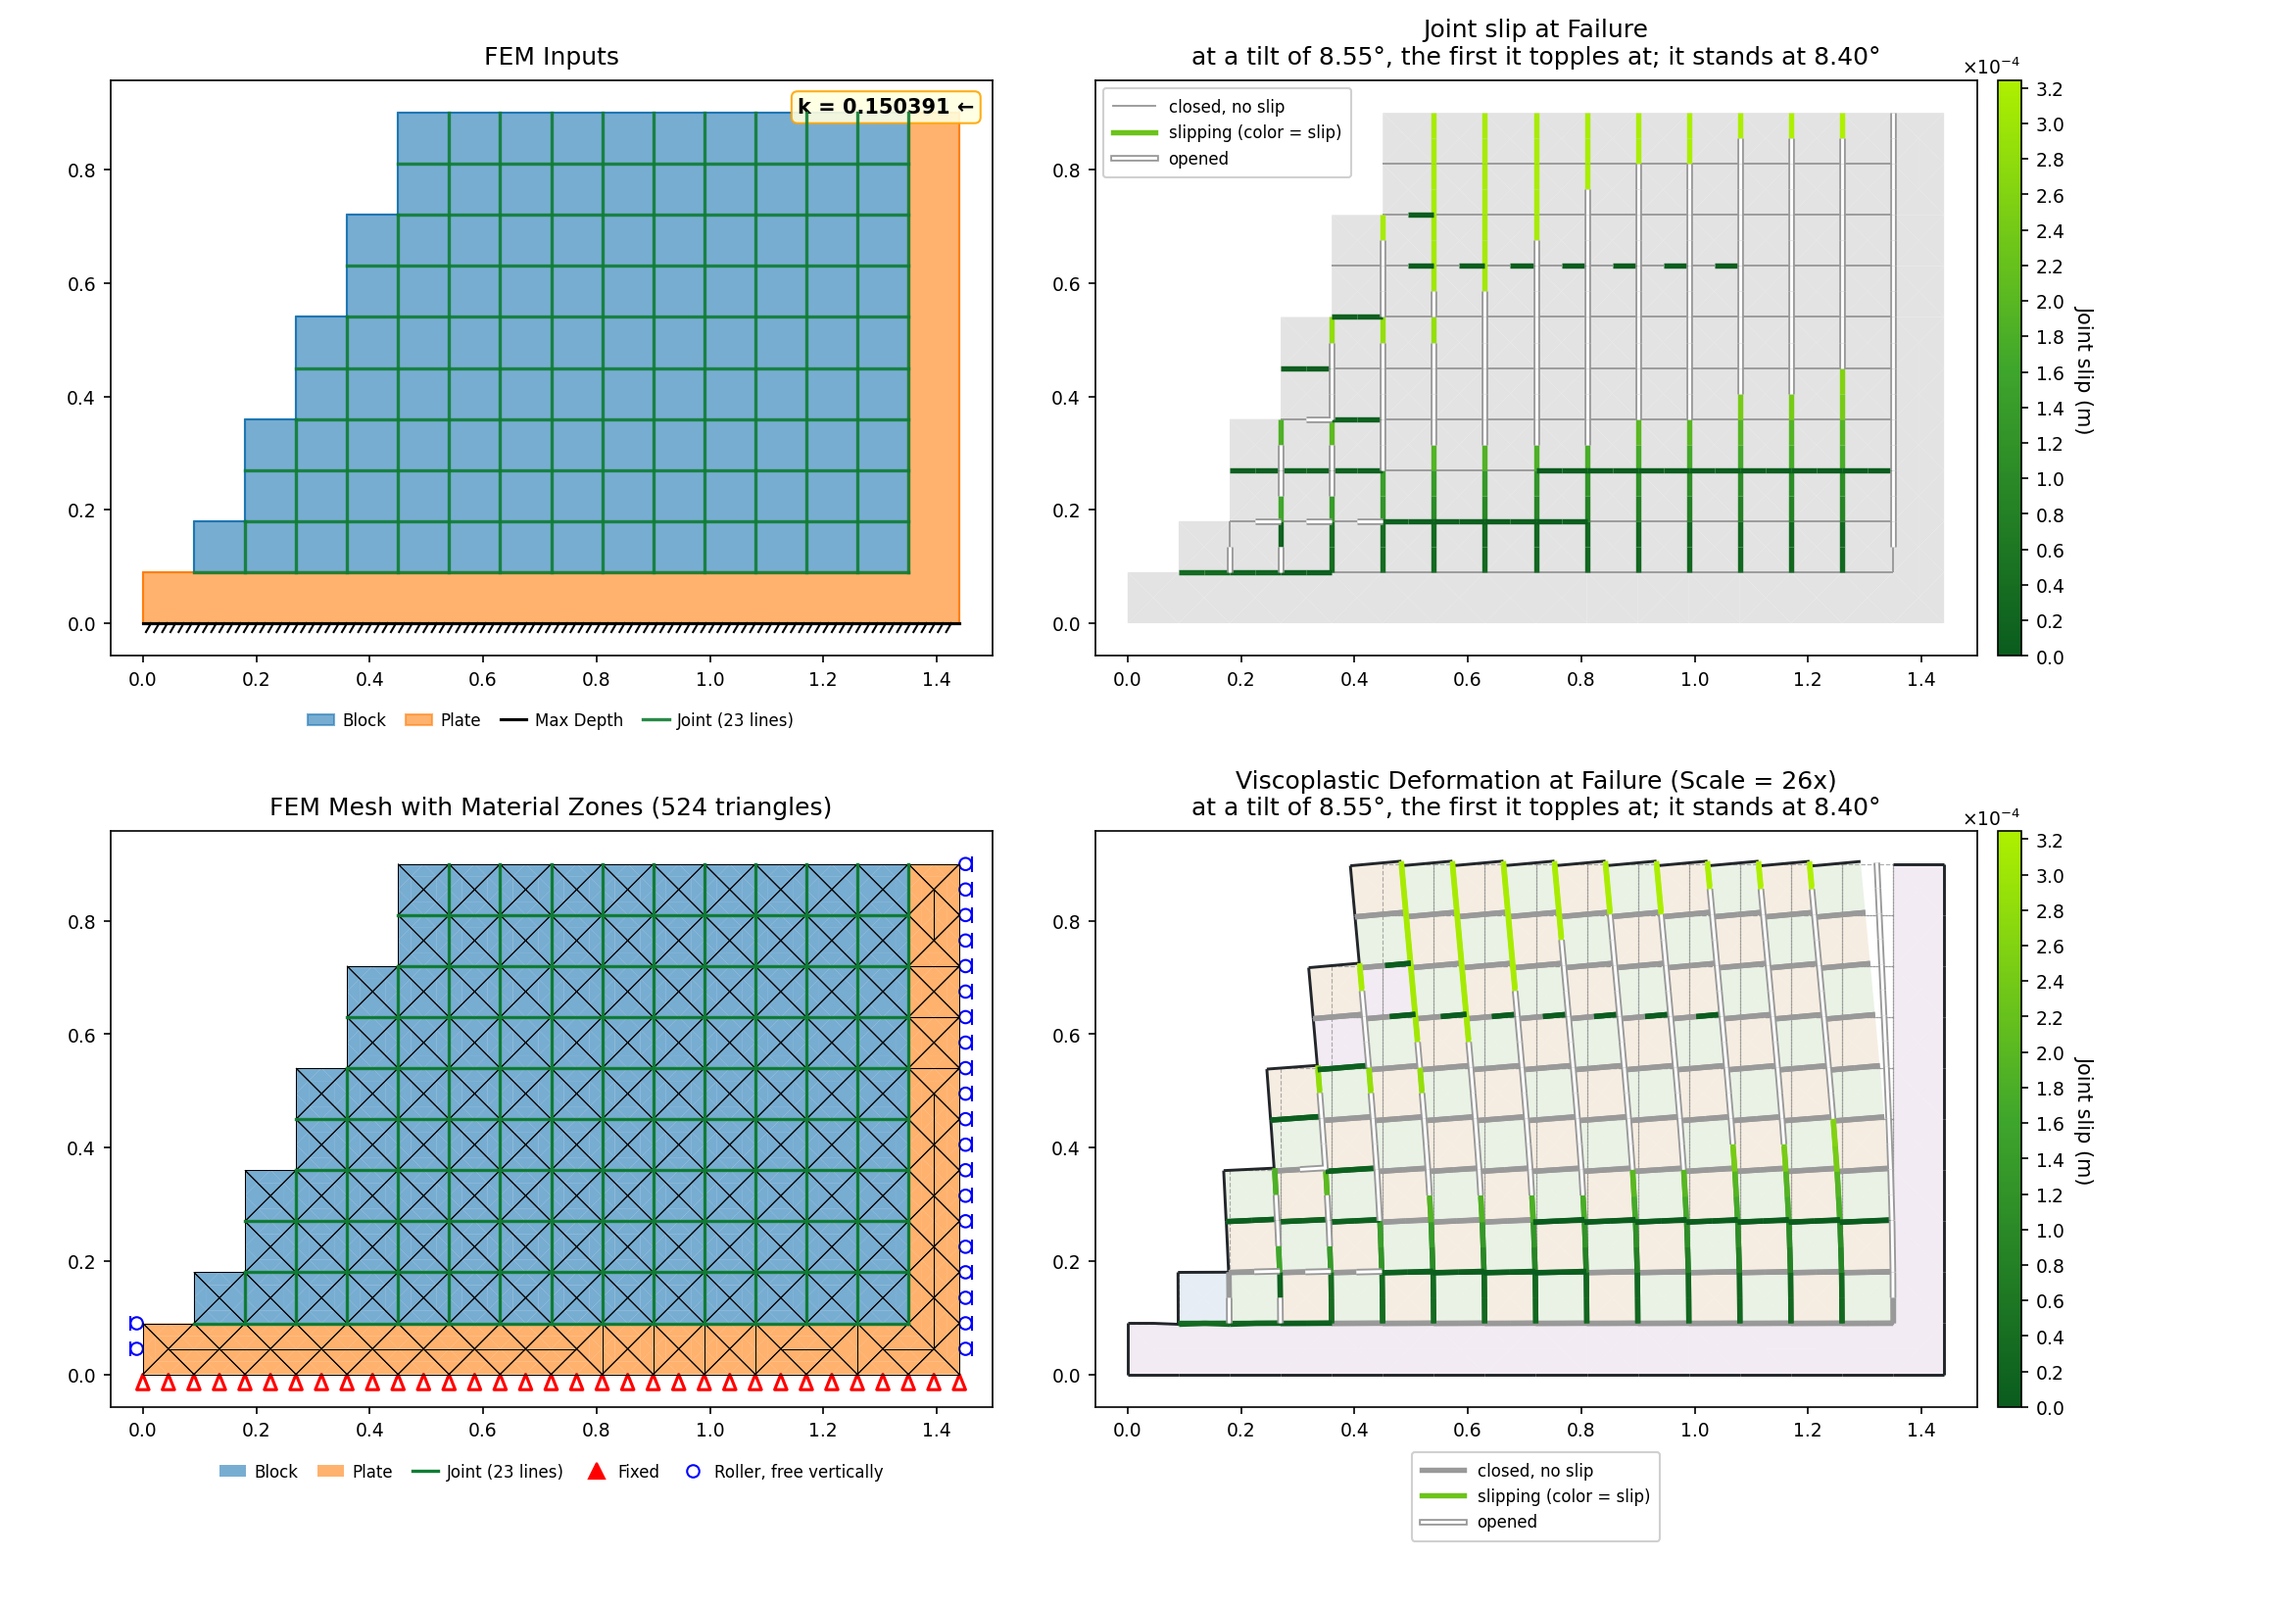
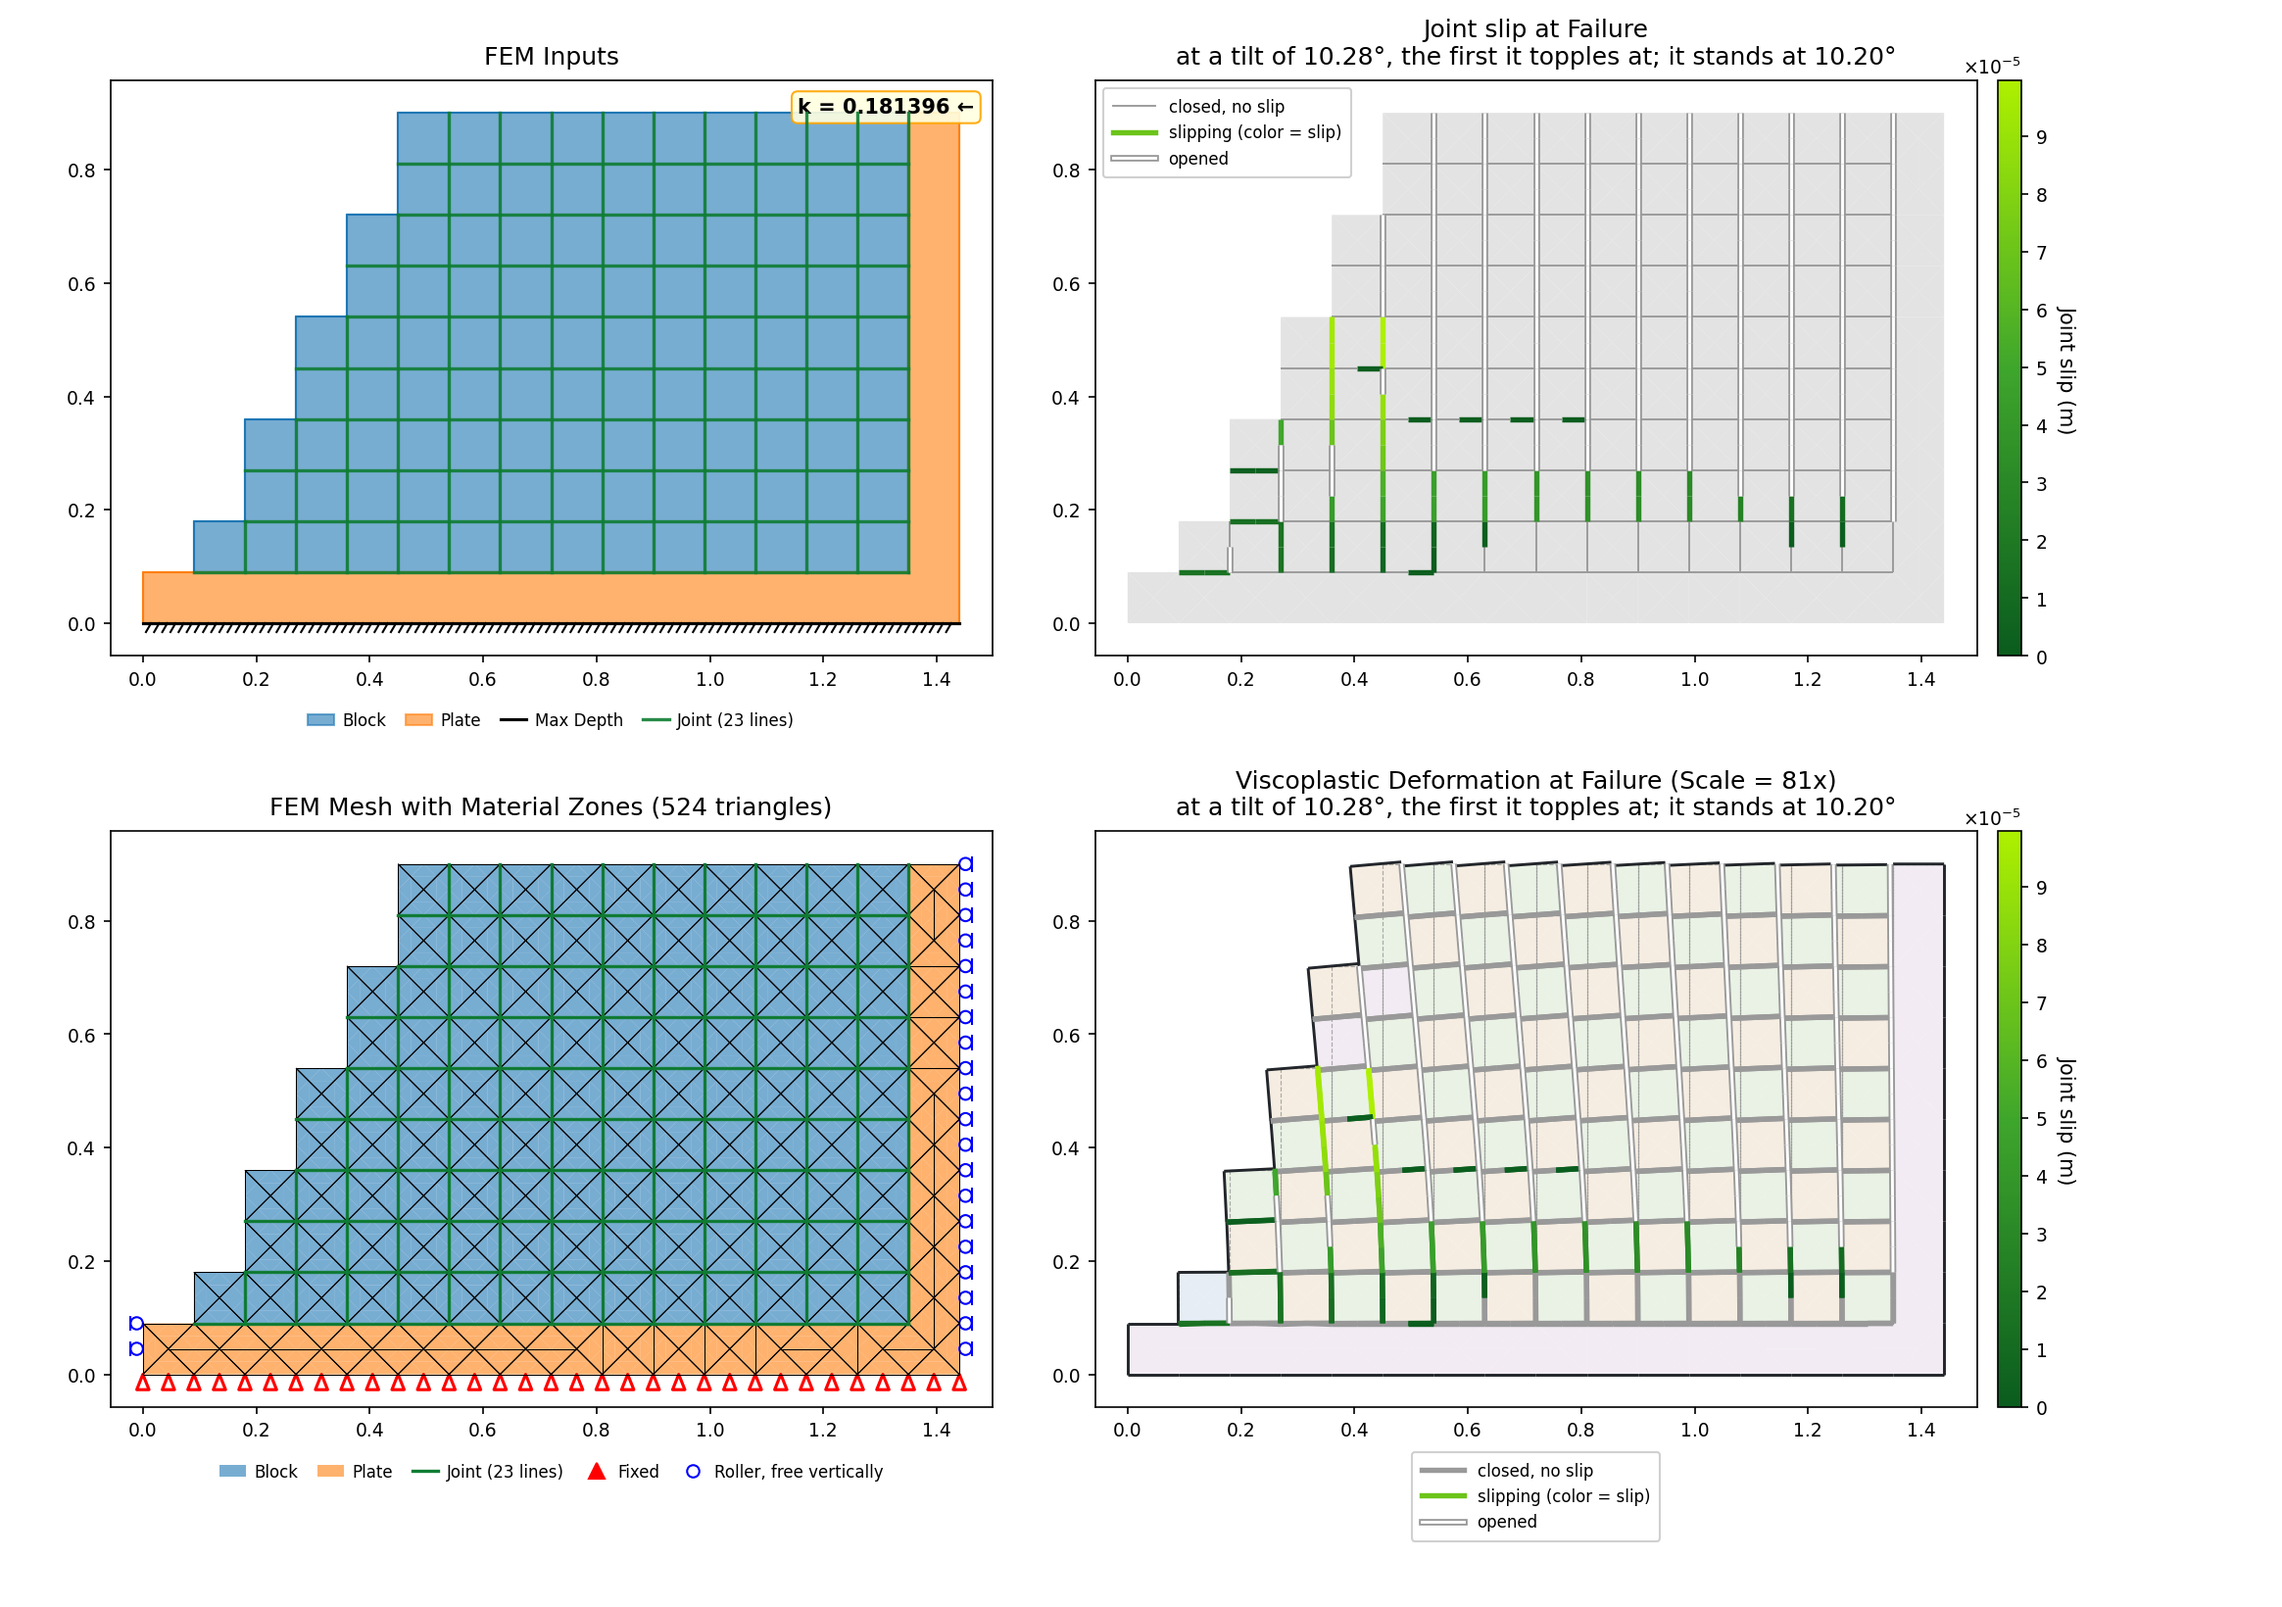
verification(rs2 joints): RJ-16 re-measured at 10.2 deg and locked with a fem_tilt tag; UDEC stays its referee
The page's 8.5 deg was a stopping-rule reading of 2026-09-16: the runaway
rule, written in multiples of a 46-micron elastic deflection, trips on a
stack of 9 cm blocks that seats and rocks by far more than that before it
stands, and the corrector that should then have checked for a balanced
state failed on the factorization-cache bug fixed in 350caa99. With the
corrector working, the stack stands at k = 0.1798 (10.20 deg) and topples
at 0.1814 (10.28 deg); the plain iteration with no stopping rule agrees,
settling through 9.9 deg and sliding steadily from 10.2. Goodman & Bray's
column analysis with the plate tilted gives 7.6 deg, a lower bound; the
experiment and RS2 9 deg; UDEC 11 deg. Scored against the manual's UDEC:
-6.9%. Figure redrawn at the two coefficients.

Claude-Session: https://claude.ai/code/session_01XjjT2aBxw8gY7EFdpoUcpj

diff --git a/docs/verification/rs2_joints.md b/docs/verification/rs2_joints.md
@@ -27,8 +27,7 @@ shared [References](references.md) page.
   problems 1 and 2, Alejano's plowing equation on problems 11 to 14, the sliding block with its tensile bridge on
   problem 19, and, on problem 15, the vendor's Slide2 limit-equilibrium search, since Alejano's
   footwall equations price a mechanism the slope does not take. Where none exists the referee is the one the manual names, UDEC in every such case.
-  Each row shows the recomputed value beside the one its source prints. Problem 16, a tilt table,
-  is scored against its experiment.
+  Each row shows the recomputed value beside the one its source prints.
 - **Rigid-block bound.** Each plowing problem is two rigid blocks. The highest reduction factor at
   which some set of joint forces, each inside its friction cone, can still hold both blocks in
   place is a ceiling on any rigid-block answer: above it the blocks must move. Alejano's Eq. (7)
@@ -97,7 +96,7 @@ joint model whose output is a stress-displacement curve.
 | [13](#rj-13) | 🟢 | Plowing sliding slab, example 4 | SSRM 0.998 vs Alejano Eq. (7) 1.0002 (−0.2%) | 1.0 vs 1.0002 (0.0%) | UDEC 1.0 (−0.2%) · Alejano prints 1.0 | 1.0 / 1.05 | |
 | [14](#rj-14) | 🟢 | Plowing sliding slab, example 5 | SSRM 1.232 vs Alejano Eq. (7) 1.2034 (+2.4%) | 0.89 vs 1.2034 (−26.0%) | UDEC 0.9 (+36.9%) · Alejano prints 1.00 | 0.89 / 1.09 | The 1.00 the paper prints for this example does not follow from the inputs it prints; Eq. (7) on them gives 1.2034. |
 | [15](#rj-15) | 🟢 | Partially joint-controlled footwall | SSRM 1.271 vs Slide2 LE search 1.25 (+1.7%) | 1.28 vs 1.25 (+2.4%) | Alejano Eqs. (9)–(10) 1.7985 (single-bed formula; the paper prints 1.72) · UDEC 1.6 (−20.6%) | 1.28 / 1.42 | Alejano's closed form drives a wedge out through a single 2 m bed and its factor rises with bed thickness; the three programs free to search for a surface agree at 1.25–1.28, so the limit-equilibrium search is the referee, as the rigid-block bound is on problem 11. |
-| [16](#rj-16) | <span class="nodata">⊘</span> | Barla et al. tilt-table block toppling | Tilt 8.5° vs experiment 9° (−5.6%) | 9° vs 9° (0.0%) | UDEC 11° (−22.7%) | 9° / 7° | *reported, no lock* — a tilt angle rather than a factor of safety: pushed with a seismic coefficient at full strength, the stack stands at 8.40° and topples at 8.55°. |
+| [16](#rj-16) | 🔴 | Barla et al. tilt-table block toppling | Tilt 10.24° vs UDEC 11° (−6.9%) | 9° vs 11° (−18.2%) | Experiment 9° · Goodman & Bray, plate tilted, 7.6° | 9° / 7° | A tilt angle rather than a factor of safety: pushed with a seismic coefficient at full strength, the stack stands at 10.20° and topples at 10.28°, above the rigid-column bound and the physical stack and below the distinct-element code. |
 | [17](#rj-17) | 🟡 | Step-path, en-echelon joints | SSRM 1.213 vs UDEC 1.29 (−6.0%) | 1.24 vs 1.29 (−3.9%) | — | 1.24 / 1.2 | No closed form: three rock bridges decide the factor, and both finite element codes read them below the distinct-element run, 2.1 points apart. |
 | [18](#rj-18) | 🟢 | Step-path, continuous joints | SSRM 0.998 vs UDEC 1.01 (−1.2%) | 1.01 vs 1.01 (0.0%) | — | 1.01 / 1.0 | |
 | [19](#rj-19) | 🟢 | Bi-planar step-path failure | SSRM 1.623 vs rigid-block limit equilibrium 1.5914 (+2.0%) | 1.5 vs 1.5914 (−5.7%) | UDEC 1.46 (+11.2%) | 1.5 / 1.41 | One block sliding on the basal joint, held by friction and by the rock bridge in tension; its statics, with the tensile cap reduced with the trial factor as the vendor reduces it, is the referee, and both vendor numbers sit below it. |
@@ -758,7 +757,7 @@ above the Mohr-Coulomb apex its own c and φ imply (c/tan φ = 285.6 kPa), so it
 
 ![RJ-15: partially joint-controlled footwall slope (rj015) — FEM inputs, mesh, viscoplastic shear strain with joint slip at the critical SRF, and the deformed section at true scale. The bedding slips over a long stretch behind the face, and the rock's only strain is a small patch at the toe where the slab has to break through to get out — the coupled mechanism the source paper describes](images/RJ-15.png)
 
-### <span class="nodata">⊘</span> RJ-16: Barla et al. tilt-table block toppling (rj016) {#rj-16}
+### 🔴 RJ-16: Barla et al. tilt-table block toppling (rj016) {#rj-16}
 
 A laboratory test rather than a slope. Fourteen columns of 9 cm blocks are stacked into a 63.4°
 staircase on a plate, and the plate is tilted until the stack topples; what the problem reports is
@@ -776,26 +775,35 @@ sign is its direction, so a tilt of θ is k = tan θ toward the face, and the ro
 sweeping k at full strength — F = 1, no reduction — until the stack stops standing. Every point is
 one solve on the corpus mesh, 0.09 m, which is the block size.
 
-| XSLOPE tilt | Experiment referee | RS2 vs referee | UDEC (manual) | RS2 without / with improvement |
-|---|---|---|---|---|
-| **8.5°** | 9° (−5.6%) | 9° vs 9° (0.0%) | 11° (−22.7%) | 9° / 7° |
+| XSLOPE tilt | UDEC referee | RS2 vs referee | Experiment | Goodman & Bray, plate tilted | RS2 without / with improvement |
+|---|---|---|---|---|---|
+| **10.24°** | 11° (−6.9%) | 9° vs 11° (−18.2%) | 9° | 7.6° | 9° / 7° |
 
-The stack stands at k = 0.1477, which is 8.40°, and goes at k = 0.1504, which is 8.55°. It stands
-at every coefficient tried below that and fails at every one above, through 0.35, the largest
-tried.
+<!-- test: file=files/rocscience/joints/rj016.xlsx, type=fem_tilt, k_stand=0.179846, k_fail=0.181396, expected_tilt=10.24, tolerance=0.1, element_type=tri6, target_size=0.09, max_iter=250000, tension_srf=false, k0=1, benchmark=RJ-16 -->
+
+The stack stands at k = 0.1798, which is 10.20°, and goes at k = 0.1814, which is 10.28°. It stands
+at every coefficient tried below that and fails at every one above, through 0.25, the largest
+tried. Run on with no stopping rule at all, the plain iteration agrees: the stack settles at every
+tilt through 9.9° and moves at a steady rate from 10.2°.
 
 **A coefficient is not a rotation, and here the difference is measurable and measures zero.**
 Tilting the model by θ turns the body force through θ and leaves its magnitude at γ; a coefficient
-k = tan θ turns it through the same angle and multiplies its magnitude by 1/cos θ, which is 1.1% at
-8.5°. On this model that cannot move the answer, because every joint carries zero cohesion and no
+k = tan θ turns it through the same angle and multiplies its magnitude by 1/cos θ, which is 1.6% at
+10.2°. On this model that cannot move the answer, because every joint carries zero cohesion and no
 block can yield, so what the state depends on is the direction of the body force and not its size.
-Re-solving the two bracketing coefficients with every unit weight scaled by 1.011 and then by 0.5
+Re-solving the two bracketing coefficients with every unit weight scaled by 1.016 and then by 0.5
 leaves both unchanged: the stack still stands at the lower coefficient and goes at the higher.
 
-**The row is reported rather than locked**: what it measures is a tilt rather than a factor of
-safety, and its two bracketing coefficients are re-solved by a check of their own before a lock is
-recorded. Its figure is drawn the same way, two solves at the two coefficients, titled by the angle
-rather than by a factor.
+**Where the five numbers sit.** Goodman & Bray's column analysis, with the plate tilted instead of
+the strength reduced, puts the toppling tilt of these fourteen rigid columns at 7.6°: every column
+tipping at once about its base corner, each thrust between columns at the top corner of the
+contact, friction fully mobilized everywhere. That construction allows no contact pressure below a
+corner, so it is a lower bound, and everything else sits above it: the physical stack and RS2 at
+9°, XSLOPE at 10.2°, and the distinct-element code, whose contacts roll and re-form as the columns
+lean, at 11°. The row is locked on its two coefficients: its check re-solves the stack at both, at
+full strength, and confirms that it stands at the first and topples at the second. Its figure is
+drawn the same way, two solves at the two coefficients, titled by the angle rather than by a
+factor.
 
 The plate is weightless in the vendor model (`BodyForceSolid: 0` — it is the apparatus, not rock),
 and `build_fem_data` requires a positive unit weight, so it is built at the 27 kN/m³ its own
@@ -804,7 +812,7 @@ base of the stack is the weight of the blocks above it.
 
 **Input file:** [rj016.xlsx](files/rocscience/joints/rj016.xlsx).
 
-![RJ-16: Barla et al. tilt-table block toppling (rj016) — FEM inputs with the seismic coefficient that stands for the tilt, mesh with the vendor's rollers, joint slip at the first coefficient the stack goes at, and the deformed section. The slip is on the vertical joints between the columns and on the bedding under the crest of the stack, and the deformed section at 156x shows what that adds up to: every column leaning downslope about its own base, the tall ones at the back furthest over, which is toppling rather than the stack sliding along the plate](images/RJ-16.png)
+![RJ-16: Barla et al. tilt-table block toppling (rj016) — FEM inputs with the seismic coefficient that stands for the tilt, mesh with the vendor's rollers, joint slip at the first coefficient the stack goes at, and the deformed section. The slip is on the vertical joints between the lower columns and along the bedding one block above the plate, and the deformed section at 81x shows what that adds up to: every column leaning downslope about its own base, the tall ones at the back furthest over, which is toppling rather than the stack sliding along the plate](images/RJ-16.png)
 
 ### 🟡 RJ-17: Step-path failure, en-echelon joints (rj017) {#rj-17}
 
